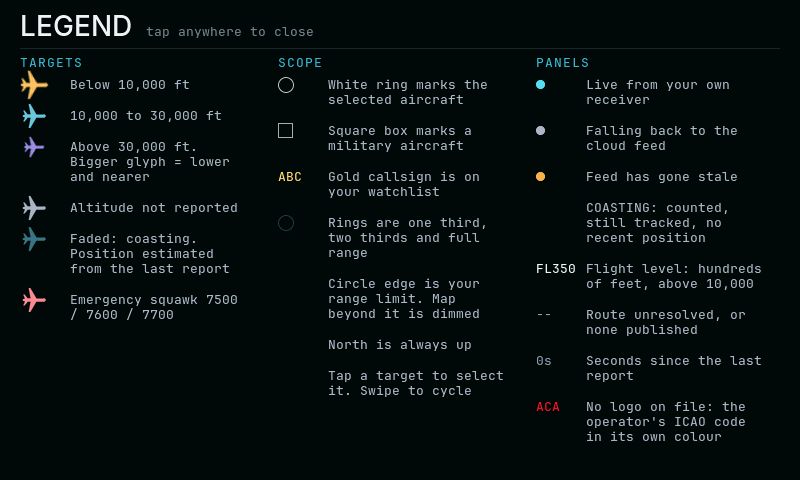
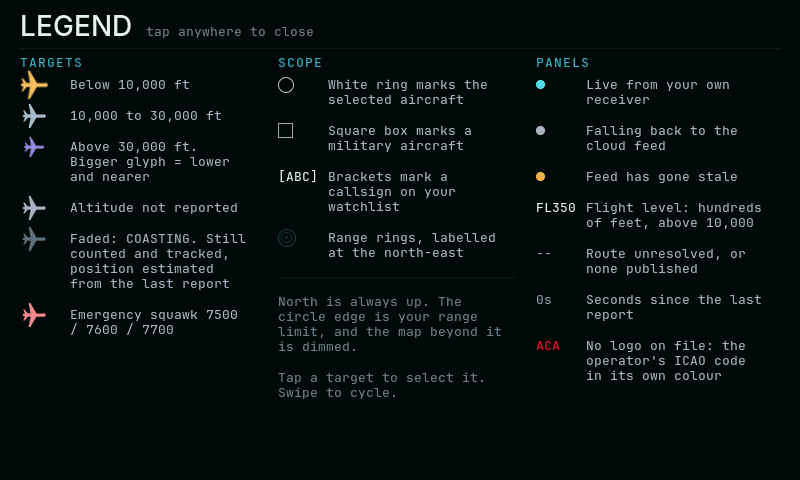
docs: refresh the screenshots for v7.2.4
Every image was stale: none showed the bearing bezel, the compass rose, the
unlabelled map, the reworked legend or the closed card edge.

  panel-normal    device capture, WestJet YWG-YEG with a live logo
  map-fullbleed   regenerated with tools/tintpreview.py from real tiles --
                  dark_nolabels, tint x1.1, so it now shows the ground the
                  panel actually draws rather than a labelled dark_all map
  legend          harness render, with the reworked notes block
  panel-settings  harness render, scrolled to Display so the new Units and
                  Time zone rows are visible
  web-console     device capture with the panel mirror loaded

Also fixes a leak in the harness itself. desktop/README.md promises harness
captures carry "no SSID, no feeder host, no device IP" -- and shim/WiFi.h had
been hardcoding the author's actual device address, 10.0.20.161, which the
settings footer prints. It is RFC 5737 documentation space (192.0.2.x) now,
which cannot route anywhere.

The web console was sanitised in the DOM before capture rather than painted
over afterwards: coordinates rounded, SSID and feeder replaced, every RFC1918
address swept out of both inputs and text, and private aircraft owners in the
traffic table replaced while the airlines stay. Three things that only showed
up by doing it: the page polls, so the first pass was overwritten by a refresh
before the shutter (timers are frozen first now); the panel mirror is a
[…]

diff --git a/desktop/shim/WiFi.h b/desktop/shim/WiFi.h
@@ -14,8 +14,13 @@
 #define WIFI_SCAN_FAILED -2
 #define WIFI_SCAN_RUNNING -1
 
+// RFC 5737 documentation range (192.0.2.0/24). These values reach screenshots
+// -- the settings footer prints the device address -- and desktop/README.md
+// promises harness captures carry no real device IP. They previously carried
+// the author's actual one, which is precisely the leak that promise exists to
+// prevent. 192.0.2.x can never route anywhere.
 struct IPAddress {
-  uint8_t o[4] = {10, 0, 20, 161};
+  uint8_t o[4] = {192, 0, 2, 47};
   IPAddress() {}
   IPAddress(uint8_t a, uint8_t b, uint8_t c, uint8_t d) { o[0]=a; o[1]=b; o[2]=c; o[3]=d; }
   String toString() const {
@@ -40,10 +45,10 @@ struct WiFiShim {
   void setSleep(bool)           {}
   void begin(const char*, const char*) {}
   void disconnect(bool = false, bool = false) {}
-  IPAddress localIP()           { return IPAddress(10, 0, 20, 161); }
-  IPAddress gatewayIP()         { return IPAddress(10, 0, 20, 1); }
+  IPAddress localIP()           { return IPAddress(192, 0, 2, 47); }
+  IPAddress gatewayIP()         { return IPAddress(192, 0, 2, 1); }
   IPAddress subnetMask()        { return IPAddress(255, 255, 255, 0); }
-  IPAddress dnsIP()             { return IPAddress(10, 0, 10, 8); }
+  IPAddress dnsIP()             { return IPAddress(192, 0, 2, 8); }
   int  scanNetworks(bool = false) { return 5; }
   int  scanComplete()           { return 5; }
   void scanDelete()             {}

diff --git a/firmware/AirRadar/src/ui/ui_help.cpp b/firmware/AirRadar/src/ui/ui_help.cpp
@@ -259,7 +259,9 @@ void helpBuild(lv_obj_t* parent) {
   hText(s_overlay, c2, y, "[ABC]", C_IVORY, F_MONO13);
   y += hRow(s_overlay, c2, y, "Brackets mark a callsign on your watchlist");
   hRings(s_overlay, c2, y, C_RING);
-  y += hRow(s_overlay, c2, y, "Range rings, each labelled in km at the north-east");
+  // No unit named: the numerals follow the Metric/Imperial setting now, so
+  // "in km" was true for exactly half the users who would read it.
+  y += hRow(s_overlay, c2, y, "Range rings, labelled at the north-east");
   y += hNoteHair(s_overlay, c2, y);
   y += hNote(s_overlay, c2, y, "North is always up. The circle edge is your range "
                                "limit, and the map beyond it is dimmed.");

diff --git a/README.md b/README.md
@@ -7,7 +7,7 @@
 No cloud account. No API key. No companion app. Point it at your own receiver and it
 draws the sky above your house on a 7-inch panel.
 
-[![firmware](https://img.shields.io/badge/firmware-v7.2.3-6fc7d8?style=flat-square)](docs/HISTORY.md) [![platform](https://img.shields.io/badge/ESP32--S3-16MB%20%2F%208MB%20PSRAM-9b8ce0?style=flat-square)](docs/HARDWARE.md) [![ui](https://img.shields.io/badge/LVGL-8.3.11-ffc061?style=flat-square)](https://lvgl.io) [![data](https://img.shields.io/badge/API%20keys%20required-none-6fc7d8?style=flat-square)](#data-sources) [![install](https://img.shields.io/badge/install-one--click%20web%20flasher-9b8ce0?style=flat-square)](https://mrronco.github.io/AirRadar/flasher/) [![license](https://img.shields.io/badge/license-GPL--3.0--or--later-ffc061?style=flat-square)](LICENSE)
+[![firmware](https://img.shields.io/badge/firmware-v7.2.4-6fc7d8?style=flat-square)](docs/HISTORY.md) [![platform](https://img.shields.io/badge/ESP32--S3-16MB%20%2F%208MB%20PSRAM-9b8ce0?style=flat-square)](docs/HARDWARE.md) [![ui](https://img.shields.io/badge/LVGL-8.3.11-ffc061?style=flat-square)](https://lvgl.io) [![data](https://img.shields.io/badge/API%20keys%20required-none-6fc7d8?style=flat-square)](#data-sources) [![install](https://img.shields.io/badge/install-one--click%20web%20flasher-9b8ce0?style=flat-square)](https://mrronco.github.io/AirRadar/flasher/) [![license](https://img.shields.io/badge/license-GPL--3.0--or--later-ffc061?style=flat-square)](LICENSE)
 
 <img src="docs/img/panel.png" width="820" alt="AirRadar main screen during a real emergency: a full-bleed dark base map with the coverage disc, seven aircraft, and Air Canada 337 squawking 7600 shown as a red glyph with a red alert strip in the Overview card and a red squawk value in the Selected card">
 
@@ -45,19 +45,23 @@ the device. The only things you supply are Wi-Fi and coordinates.
 
 <div align="center">
 
-<img src="docs/img/map-fullbleed.png" width="700" alt="The full-bleed base map with the coverage lens: sharp inside the receiver radius, progressively dimmed outside it">
+<img src="docs/img/map-fullbleed.png" width="700" alt="The full-bleed base map layer with the coverage lens: sharp inside the receiver radius, progressively dimmed outside it, and carrying no place names">
 
-<sub><b>The coverage lens.</b> The map covers all 800×480, but everything outside your receiver's range is dimmed with a feathered falloff — so the scope still reads as a disc without drawing a hard edge across the geography.</sub>
+<sub><b>The coverage lens.</b> The map covers all 800×480, but everything outside your receiver's
+range is dimmed with a feathered falloff — so the scope still reads as a disc without drawing a
+hard edge across the geography. The tiles are CARTO <code>dark_nolabels</code>: place names at this
+zoom are not legible across a room, only textural, and the scope wants a ground rather than a map.
+This is the layer alone; the bearing bezel and the scope chrome are composited over it.</sub>
 
 </div>
 
 <div align="center">
 
-<img src="docs/img/panel-normal.png" width="700" alt="The same display in its ordinary state: eleven violet and cyan altitude-coloured targets, no alert strip, with a Porter Airlines flight pinned in the Selected card showing its logo, its Winnipeg to Ottawa route and a live instrument grid">
+<img src="docs/img/panel-normal.png" width="700" alt="The same display in its ordinary state: six violet altitude-coloured targets around a graduated bearing bezel, no alert strip, with a WestJet flight pinned in the Selected card showing its logo, its Winnipeg to Edmonton route and a live instrument grid">
 
 <sub><b>The same display, nothing wrong.</b> Compare with the hero above: no alert strip in the
 Overview card, and every glyph is altitude-coloured rather than red. The emergency treatment is
-deliberately the only thing on screen that uses red. A Porter flight is pinned here, so the
+deliberately the only thing on screen that uses red. A WestJet flight is pinned here, so the
 right-hand card is filled in.</sub>
 
 </div>
@@ -87,11 +91,13 @@ computer — the whole settings tree lives behind the gear.
 
 <div align="center">
 
-<img src="docs/img/panel-settings.png" width="700" alt="The on-device settings screen: Location, Display, Layers, Filters and Network groups in a two-column layout with a pinned footer">
+<img src="docs/img/panel-settings.png" width="700" alt="The on-device settings screen scrolled to the Display group: target labels, night mode, weather strip, units, 12/24-hour clock and time zone on the left; Wi-Fi, IP mode, feeder and Home Assistant on the right; a pinned footer below both">
 
-<sub>Settings on the panel. Location, favourites and range; display and layer toggles including
-°C/°F and a 12/24-hour clock; class, altitude and watchlist filters; Wi-Fi, static IP, feeder URL
-and Home Assistant. The footer stays pinned while the columns scroll. Personal values blurred.</sub>
+<sub>Settings on the panel, scrolled to show the Display group. Location, favourites and range;
+metric/imperial units and a time zone picked from a list rather than typed as a POSIX string;
+class, altitude and watchlist filters; Wi-Fi, static IP, feeder URL and Home Assistant. The footer
+stays pinned while the columns scroll. Captured from the desktop harness, which has no real
+network settings to redact.</sub>
 
 </div>
 
